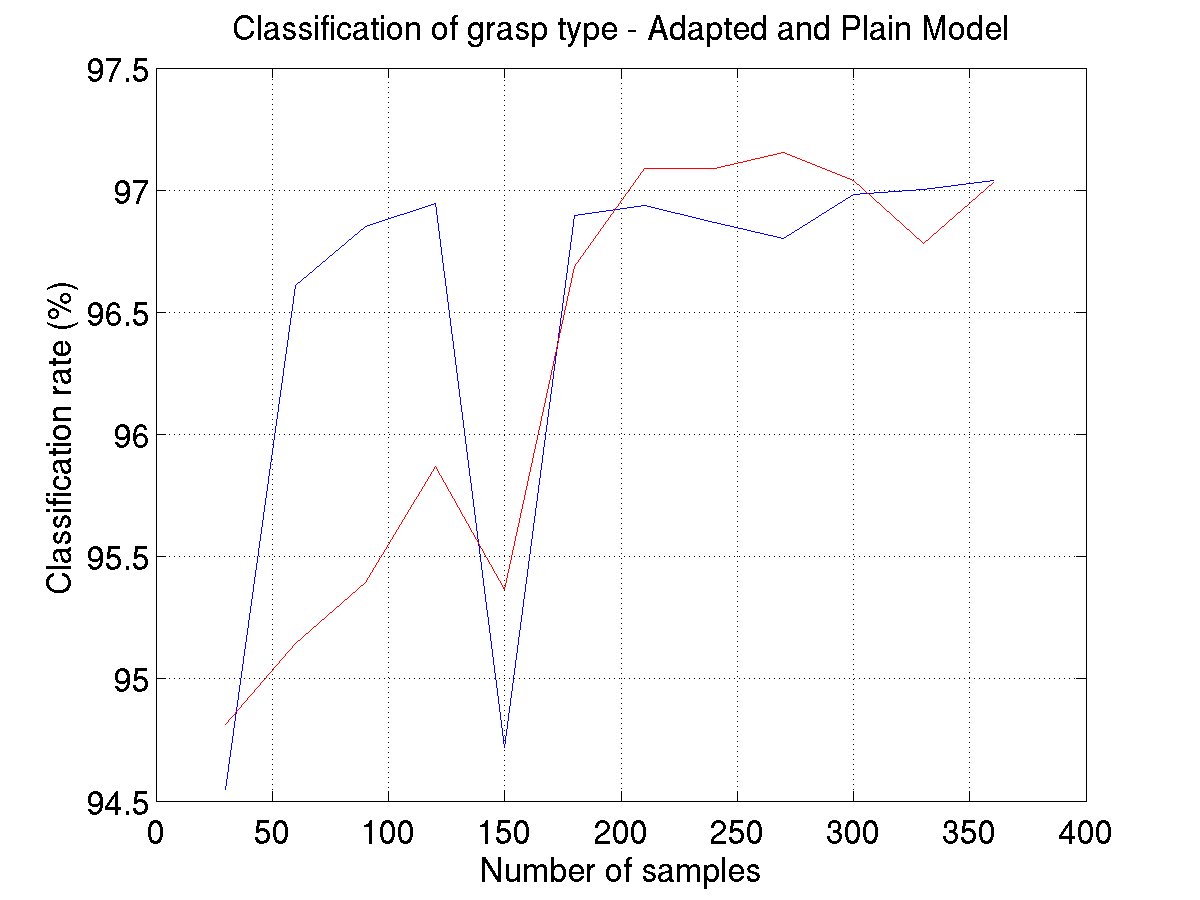
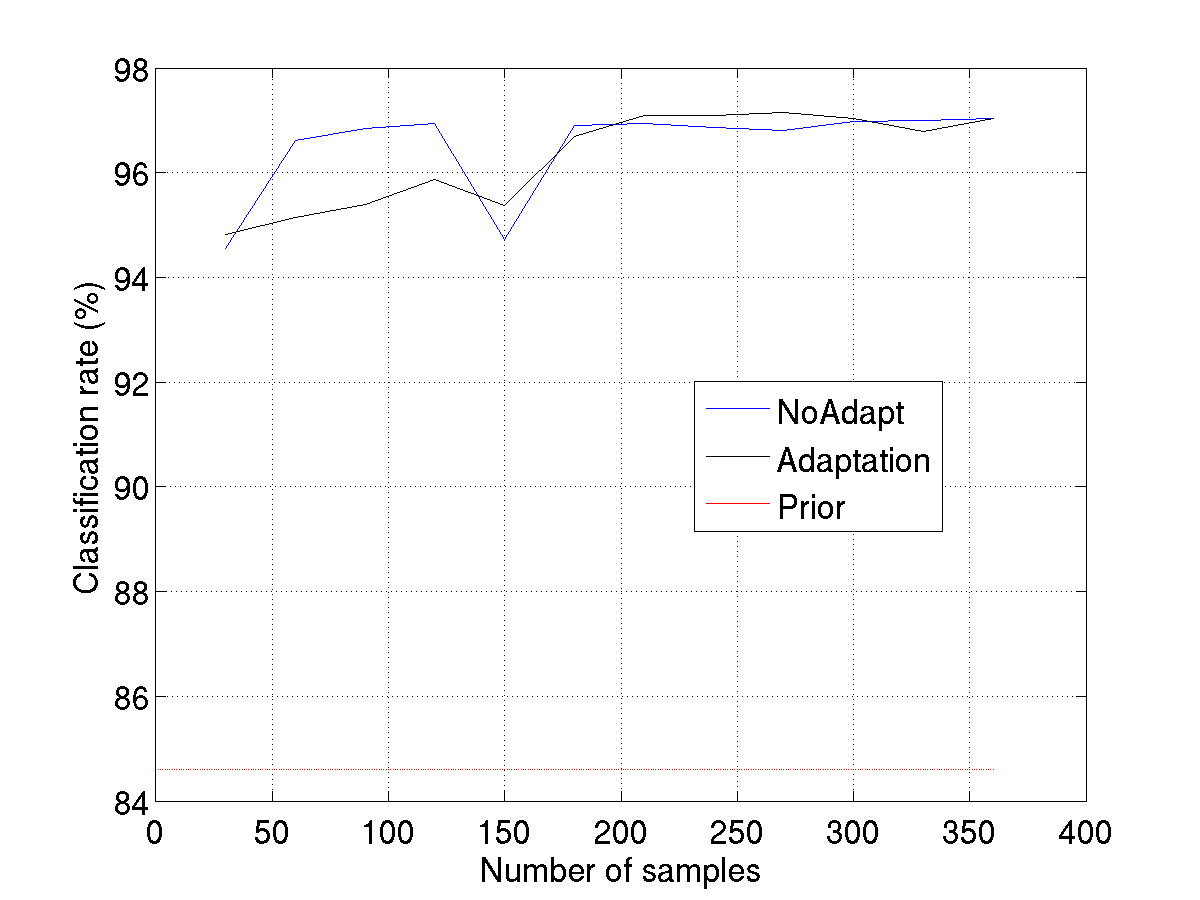
*** empty log message ***
svn path=/trunk/Papers/; revision=6931

diff --git a/2009.ICRA/30.exp.tex b/2009.ICRA/30.exp.tex
@@ -1,28 +1,81 @@
 We have conducted two different experiments, one to predict the force measured
 by the force sensor and another one to classify the grasp type.
-The EMG data were the preprocessed as described in Sec ???.
-To assess the performance of the proposed adaptation method we have compared it
-to two baseline methods. The first one consists in using only the stored models
-wihtout updating them; the second one consists in using only the new data for
-training. The parameters of the training ($C$ and $\gamma$) were chosen by
-cross-validation.
+The EMG data were the preprocessed as described in Sec \ref{sec:preproc}.
 
-Given that we have data from $10$ subjects we have used a sort of
-cross-validation to test the methods. In particular we consider one of the
-subject for the new data and use the other $9$ subjects to train the stored
-models. We repeat this procedure $10$ times, one for each subject, to have a
-reliable estimation of the performance.
+As said in Sec \ref{sec:adapt}, we need $N$ models already stored in memory.
+Then training data comes from subject $N+1$ and the system starts
+training. The performace is evaluated using unseen data from the subject
+$N+1$.
+To simulate this scenario and to have reliable estimation of the
+performance, we have used a sort of cross-validation.
+In particular we consider one of the subject to generate random sequences
+of training data and use the other $9$ subjects to train the stored models.
+This procedure is repeated $10$ times.
+
+To assess the performance of the proposed adaptation method we have compared it
+to two baseline methods. The first one, that we call \emph{Prior} consists in
+using only the stored models wihtout updating them with the new training data.
+The second one, \emph{NoAdapt}, consists in using LS-SVM using only the new data
+for training, as it would be in the normal scenario without adaption.
+For classification we used the classification rate as a measure of performance,
+while for regression we used the correlation index because \textbf{Claudio: perche'?
+hai una citazione da mettere?}.
+All the parameters of the training ($C$ and $\gamma$ of the gaussian kernel)
+were chosen by cross-validation.
+
+In Figure \ref{fig:diff_cla} we have plotted the average difference between 
+the classification performance of NoAdapt and our method. Using our adaptation
+method there is always an improvement, but when the training samples are too
+few the standard deviations are big. This is due to the high variance of the
+leave-one-out error with few training samples. Still, the average gain is
+almost $5\%$ when there are only 30 training samples and seems to stabilize
+around $1\%$ as the training samples increase.
+In Figure \ref{fig:cla_abs}.a we have plotted the best performance of our method
+on a particular subject, while in Figure \ref{fig:cla_abs}.b there is the worst
+performance on another subject. In the best case the gain is quite significant,
+while in the worst case we almost recover the performance of NoAdapt. In this
+case none of the models match the new distribution of the data, so the parameter
+$\beta$ was automatically set to a very small value. It is reasonable to think
+that the performance of the method would increase with the number of stored
+models. Note that in all the cases the performance of Prior models, where well
+below the performance of Adapt and NoAdapt, in Figure \ref{fig:cla_abs} is shown
+only the performance of the best one among all the 9 stored models.
+Similar observations can be done for the regression task in Figure \ref{fig:diff_reg}
+and Figure \ref{fig:reg_abs}.
 
 \begin{figure}[t]
   \centering
   \includegraphics[width=0.95\linewidth]{figs/exp1}
-  \caption{The classification experiment.}
-  \label{fig:exp1}
+  \caption{Difference in performance between NoAdapt and our method  on the
+ classification of the grasp types.}
+  \label{fig:diff_cla}
 \end{figure}
 
-\begin{figure}[t]
+\begin{figure*}[ht] \centering
+  \begin{tabular}{cc}
+    \includegraphics[width=0.45\textwidth]{figs/exp1_abs_best} &
+    \includegraphics[width=0.45\textwidth]{figs/exp1_abs_worst} \\
+    $(a)$ & $(b)$ \\
+  \end{tabular}
+  \caption{$(a)$ Best classfication rate gain of the adapted model compared to
+ NoAdapt and Prior on a particular subject; $(b)$ worst performance on another subject.}
+  \label{fig:cla_abs}
+\end{figure*}
+
+\begin{figure}[ht]
   \centering
   \includegraphics[width=0.95\linewidth]{figs/exp2}
   \caption{The regression experiment.}
-  \label{fig:exp2}
+  \label{fig:diff_reg}
 \end{figure}
+
+\begin{figure*}[ht] \centering
+  \begin{tabular}{cc}
+    \includegraphics[width=0.45\textwidth]{figs/exp2_abs_best} &
+    \includegraphics[width=0.45\textwidth]{figs/exp2_abs_worst} \\
+    $(a)$ & $(b)$ \\
+  \end{tabular}
+  \caption{$(a)$ Best correlation coefficient gain of the adapted model compared to NoAdapt
+ and Prior on a particular subject; $(b)$ worst performance on another subject.}
+  \label{fig:reg_abs}
+\end{figure*}

diff --git a/2009.ICRA/25.math.tex b/2009.ICRA/25.math.tex
@@ -1,9 +1,9 @@
 This section describes our mathematical framework. We first introduce
-the basic notation (Section \ref{back}), then we present our algorithm
-for online model adaptation (Section \ref{adapt}).
+the basic notation (Section \ref{sec:back}), then we present our algorithm
+for online model adaptation (Section \ref{sec:adapt}).
 
 \subsection{Background}
-\label{back}
+\label{sec:back}
 
 Assume $\xx_i \in \RR^m$ is an input vector and $y_i \in \RR$ is its
 associated output.  Given a set $\{\xx_i,y_i\}_{i=1}^l$ of samples
@@ -28,12 +28,10 @@ feature space itself,
 %between the images of vectors in the feature space,
 i.e. $K(\xx,\xx')=\phi(\xx) \cdot \phi(\xx')$. A common kernel
 function is the Gaussian kernel
-
 \begin{equation}
   K(\xx,\xx')=\exp(-\gamma ||x-x'||^2)
   \label{eq:rbf}
 \end{equation}
-
 \noindent that will be used in all our experiments.
 
 The parameters of the linear model, $\ww$ and $b$, are found by
@@ -53,7 +51,7 @@ adaptation method. Note that we use the same formulation to solve both
 regression and classification problems.
 
 \subsection{Model Adaptation}
-\label{adapt}
+\label{sec:adapt}
 
 Let us assume $N$ models are already stored in memory, trained
 off-line on data acquired on $N$ different subjects. When the
@@ -84,22 +82,22 @@ To solve this problem we generalize the framework for adaptation proposed in
 The basic idea is to slightly change the regularization term of the
 SVM, so that the solution will be close to the one of the previous
 model.  The optimization problem is \cite{YangYH07} %the following
-
 \begin{align}
-  \min_{\ww,b} \frac{1}{2} \|\ww- \ww'\|^2 + C \sum_{i=1}^N \xi^2 \\
+  \min_{\ww,b} \frac{1}{2} \|\ww- \ww'\|^2 + C \sum_{i=1}^N \xi^2 \nonumber \\
   \mbox{subject to} \;\;
-  \xi_i \geq 0,\;\; y_i \ww \cdot \phi(\xx_i) + b \geq 1-\xi_i,
+  \xi_i \geq 0,\;\; y_i \ww \cdot \phi(\xx_i) + b \geq 1-\xi_i~,
   \label{eq:opt_prob_orig}
 \end{align}
-
 \noindent where $\ww'$ is the previous model.
 %In our opinion the above formulation has the disadvantage of giving a fixed
 %weight to the previous model. 
 This formulation gives a fixed weight to $\ww'$. This can be a
 disadvantage in our scenario: for instance,
-\textbf{FRANCESCO: questa particina e` ancora da sistemare}
-\ldots To solve this problem, here we introduce a scaling factor for
-the previous model. In this way \ldots
+in the case none of the stored models is useful for the task at hand,
+imposing the closeness could harm the performance of the new model.
+To solve this problem, here we introduce a scaling factor for
+the previous model. In this way we can control the degree to which
+the new model is close to the previous one.
 We also change the loss into the standard square loss. This
 gives us the possibility to calculate the leave-one-out error with a
 closed formula, therefore
@@ -107,20 +105,15 @@ closed formula, therefore
 %in this way 
 to automatically tune this additional parameter. So we obtain the
 following optimization problem
-
-\begin{align}
-  \min_{\ww,b} \frac{1}{2} \|\ww- \beta \ww'\|^2 + \frac{C}{2} \sum_{i=1}^N \xi^2 \\
-  \mbox{subject to} \;\;
-  y_i = \ww \cdot \phi(\xx_i) + b + \xi_i.
+\begin{align} 
+  \min_{\ww,b} \frac{1}{2} \|\ww- \beta \ww'\|^2 + \frac{C}{2} \sum_{i=1}^N \xi^2 \nonumber \\
+  \mbox{subject to} \;\; y_i = \ww \cdot \phi(\xx_i) + b + \xi_i~.
   \label{eq:opt_prob}
 \end{align}
-
 It is easy to show that the optimal solution is %the form
-
 \begin{equation}
-  \ww = \beta \ww' + \sum_{i=1}^N \alpha_i \phi(\xx_i), \; \alpha_i \in \RR,
+  \ww = \beta \ww' + \sum_{i=1}^N \alpha_i \phi(\xx_i), \; \alpha_i \in \RR~,
 \end{equation}
-
 \noindent hence the final solution is given by the sum of the previous model
 scaled by the parameter $\beta$, and a new model given by the new data
 points.  Note that when $\beta$ is $0$ we recover the original LS-SVM

diff --git a/2009.ICRA/10.intro.tex b/2009.ICRA/10.intro.tex
@@ -70,7 +70,10 @@ prosthesis with a model which will be then refined and adapted on-line
 to the patient. In machine learning, this is called \emph{model
 adaptation}: a system which adapts to a new data distribution, as this
 distribution shifts with time. Model adaptation in this framework
-works like this: \textbf{FRANCESCO: brevissimo riassunto dell'approccio}
+works like this: at each step we constrain the model to be \emph{close}
+to the previous ones stored in the memory of the prosthesis. The degree
+of \emph{closeness} is automatically tuned using an estimation of the
+generalization error using the leave-one-out error.
 
 To check whether this idea can improve things, we apply it to a set of
 EMG data collected from $10$ healthy subjects. Each subject was asked
@@ -127,11 +130,13 @@ As far as we know, there is no EMG database present in the machine
 learning community, which could serve our purpose. In some of the
 aforementioned papers, analogous data sets (but most likely smaller
 than ours) are reported about, but there is no mention of their
-availability. 
+availability.
 %The data set used in this paper has been gathered in
 %2008 and is the subject of another analysis whose preliminary results
 %are visible in \cite{2008.GNB}. A larger, full report is being
 %prepared for submission.
 %FIXME CLAUDIO: mi sembra inutile e potenzialmente dannoso (se il db non e' nuovo, e un contributo di meno del paper), lo toglierei 
+Regarding model adaptation, several approaches has been proposed.
+In 
 \textbf{FRANCESCO: model adaptation in letteratura...}
 

diff --git a/2009.ICRA/00.abstract.tex b/2009.ICRA/00.abstract.tex
@@ -13,12 +13,13 @@ employed to this end. A desired feature is that of providing a
 pre-trained model to the patient, so that a quicker and better
 interaction can be obtained.
 
-To this end we propose \emph{model adaptation} for least-squares SVMs,
-a technique by which \textbf{FRANCESCO...}. We test the effectiveness
-of the approach on a database of EMG signals gathered from human
+To this end we propose \emph{model adaptation} with least-squares SVMs,
+a technique that allows the automatic tuning of the adaptation. We test the
+effectiveness of the approach on a database of EMG signals gathered from human
 subjects.
-We show that, when pre-trained models are used, the training time is reduced and the overall performance is increased,
-compared to what would be achieved by starting from scratch.
+We show that, when pre-trained models are used, the number of training samples
+needed to reach a certain performance is reduced, and the overall performance is
+increased, compared to what would be achieved by starting from scratch.
 % and show that not only the training time can be reduced, but
 %the overall performance can be increased, when pre-trained models are
 %used, as opposed to starting from scratch.

diff --git a/2009.ICRA/20.mms.tex b/2009.ICRA/20.mms.tex
@@ -72,6 +72,7 @@ $500$Hz. See Figure \ref{fig:spectra} for an example.
 %The board was connected via a USB port to a custom National Instruments' LabView VI application (running on an entry-level laptop) to acquire all the signals.
 
 \subsection{Data acquisition and pre-processing}
+\label{sec:preproc}
 
 %First of all we decided to record a rest condition to define the baseline of the EMG activity, than we started the experiment. 
 We first considered a rest condition, so to define the baseline of the
@@ -145,7 +146,7 @@ defined as the interval between the onset of the electrical activity
 of the muscle (EMG) indicating its activation by the neural system and
 the onset of the resulting change in the mechanical variable
 observed. The delays reported range from 25 to 100ms for different
-muscles and tasks\cite{Wolf1994}.}. Therefore, in practical
+muscles and tasks \cite{Wolf1994}.}. Therefore, in practical
 applications, it can be considered as acceptable a wider lag than what
 one would expect.
 %a wider lag is acceptable than one would expect. 

diff --git a/2009.ICRA/paper.tex b/2009.ICRA/paper.tex
@@ -38,7 +38,7 @@
 
 \author{Francesco~Orabona, Claudio~Castellini, Barbara~Caputo, Angelo~Emanuele~Fiorilla and Giulio~Sandini%
 \thanks{F. Orabona \emph{(corresponding author)} and B. Caputo
-  are with IDIAP,
+  are with Idiap Research Institute,
   rue Marconi, 19, Case Postale 592, CH-1920 Martigny, Switzerland.
   e-mail: francesco.orabona@idiap.ch, barbara.caputo@idiap.ch}%
 \thanks{C. Castellini
